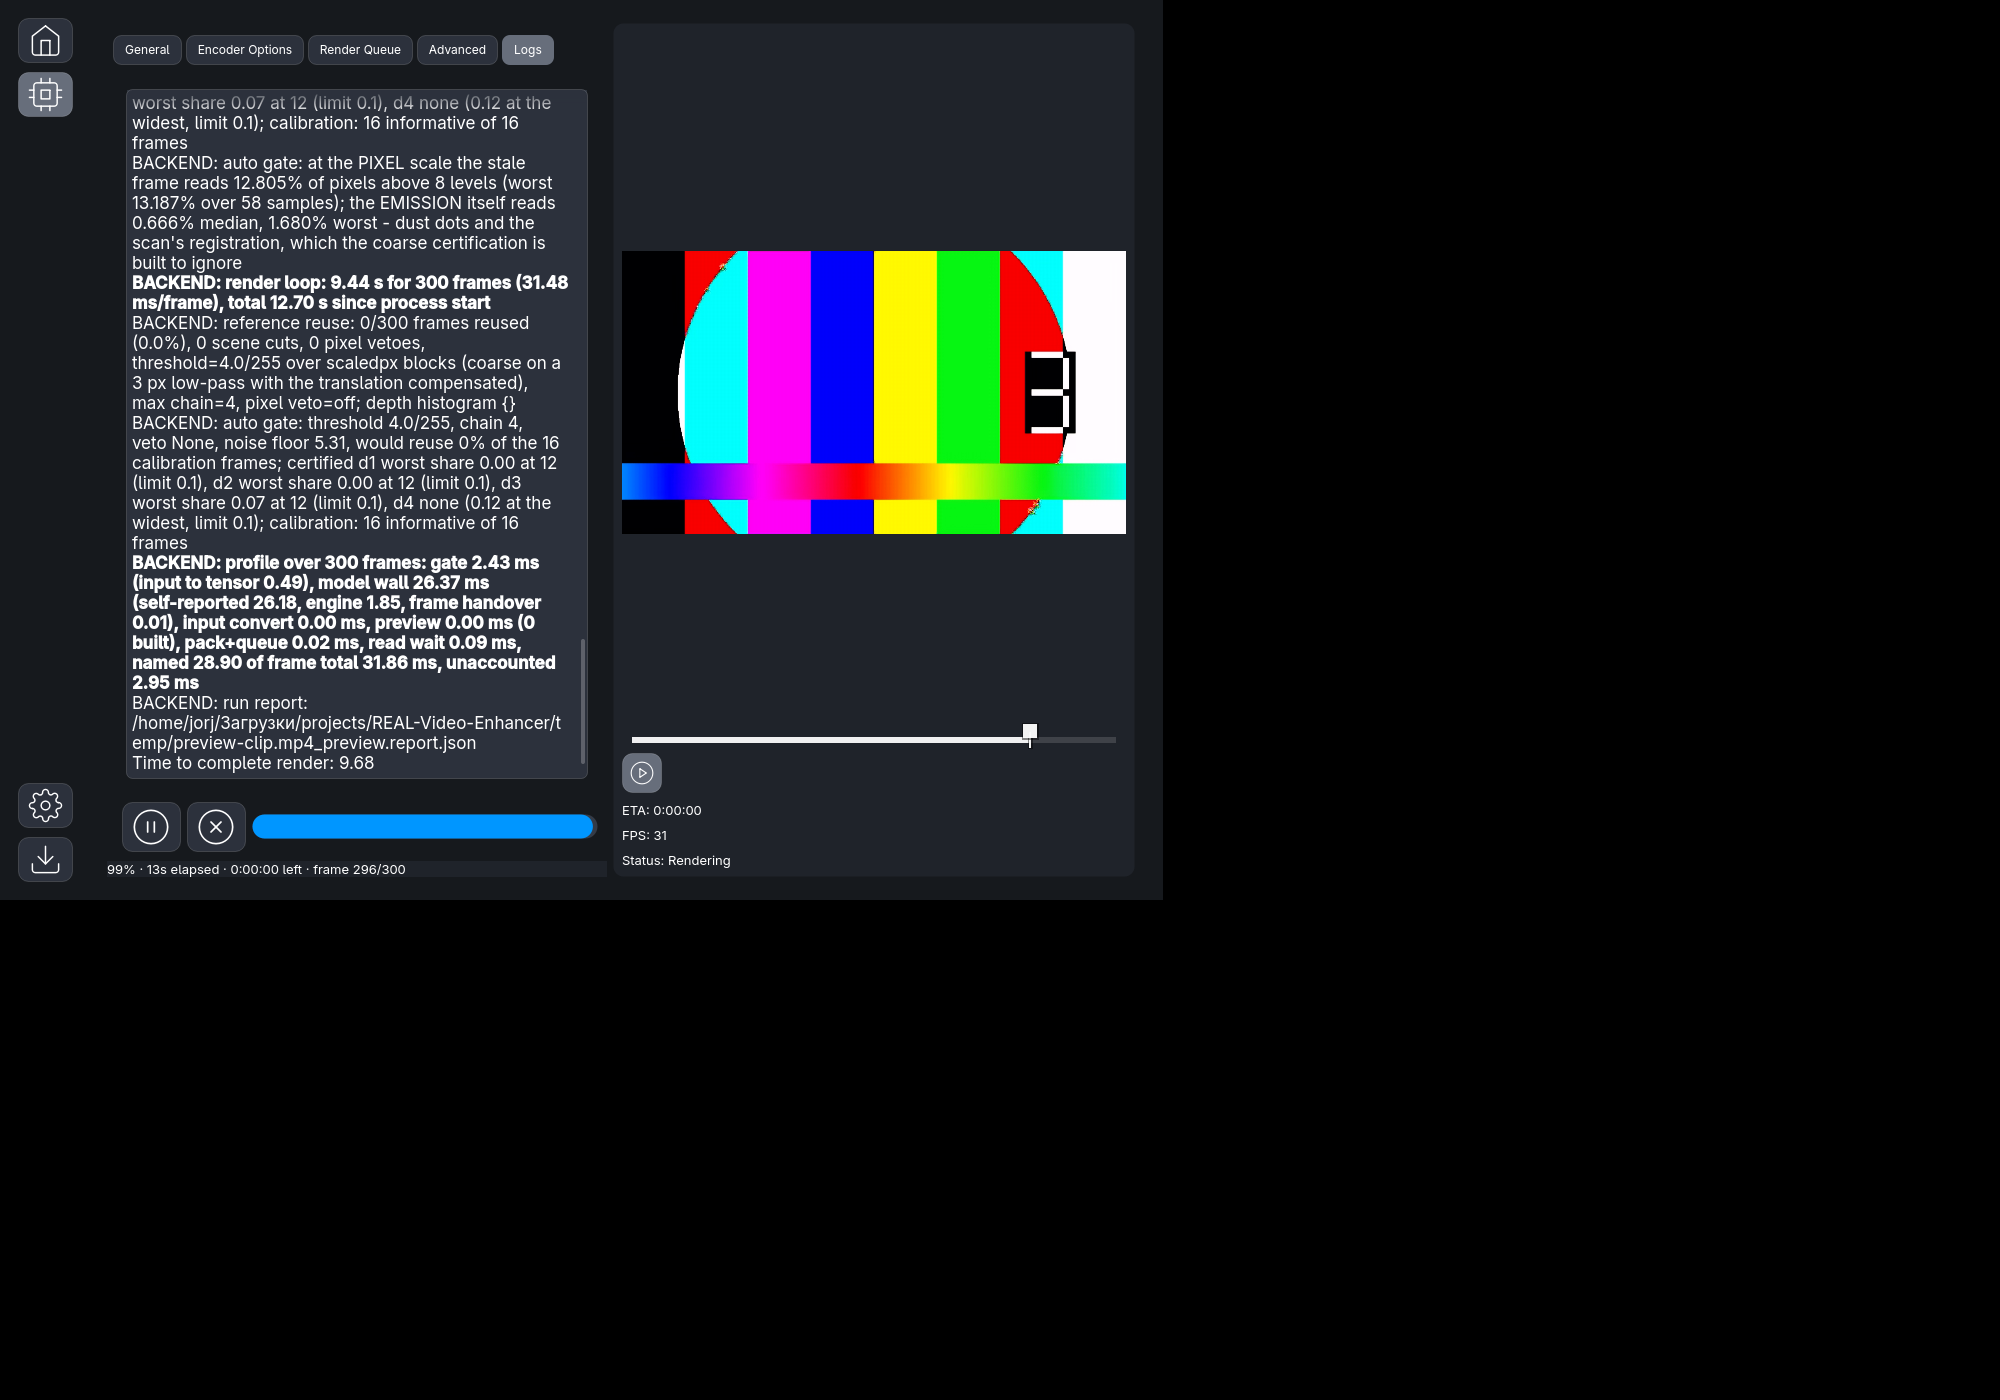
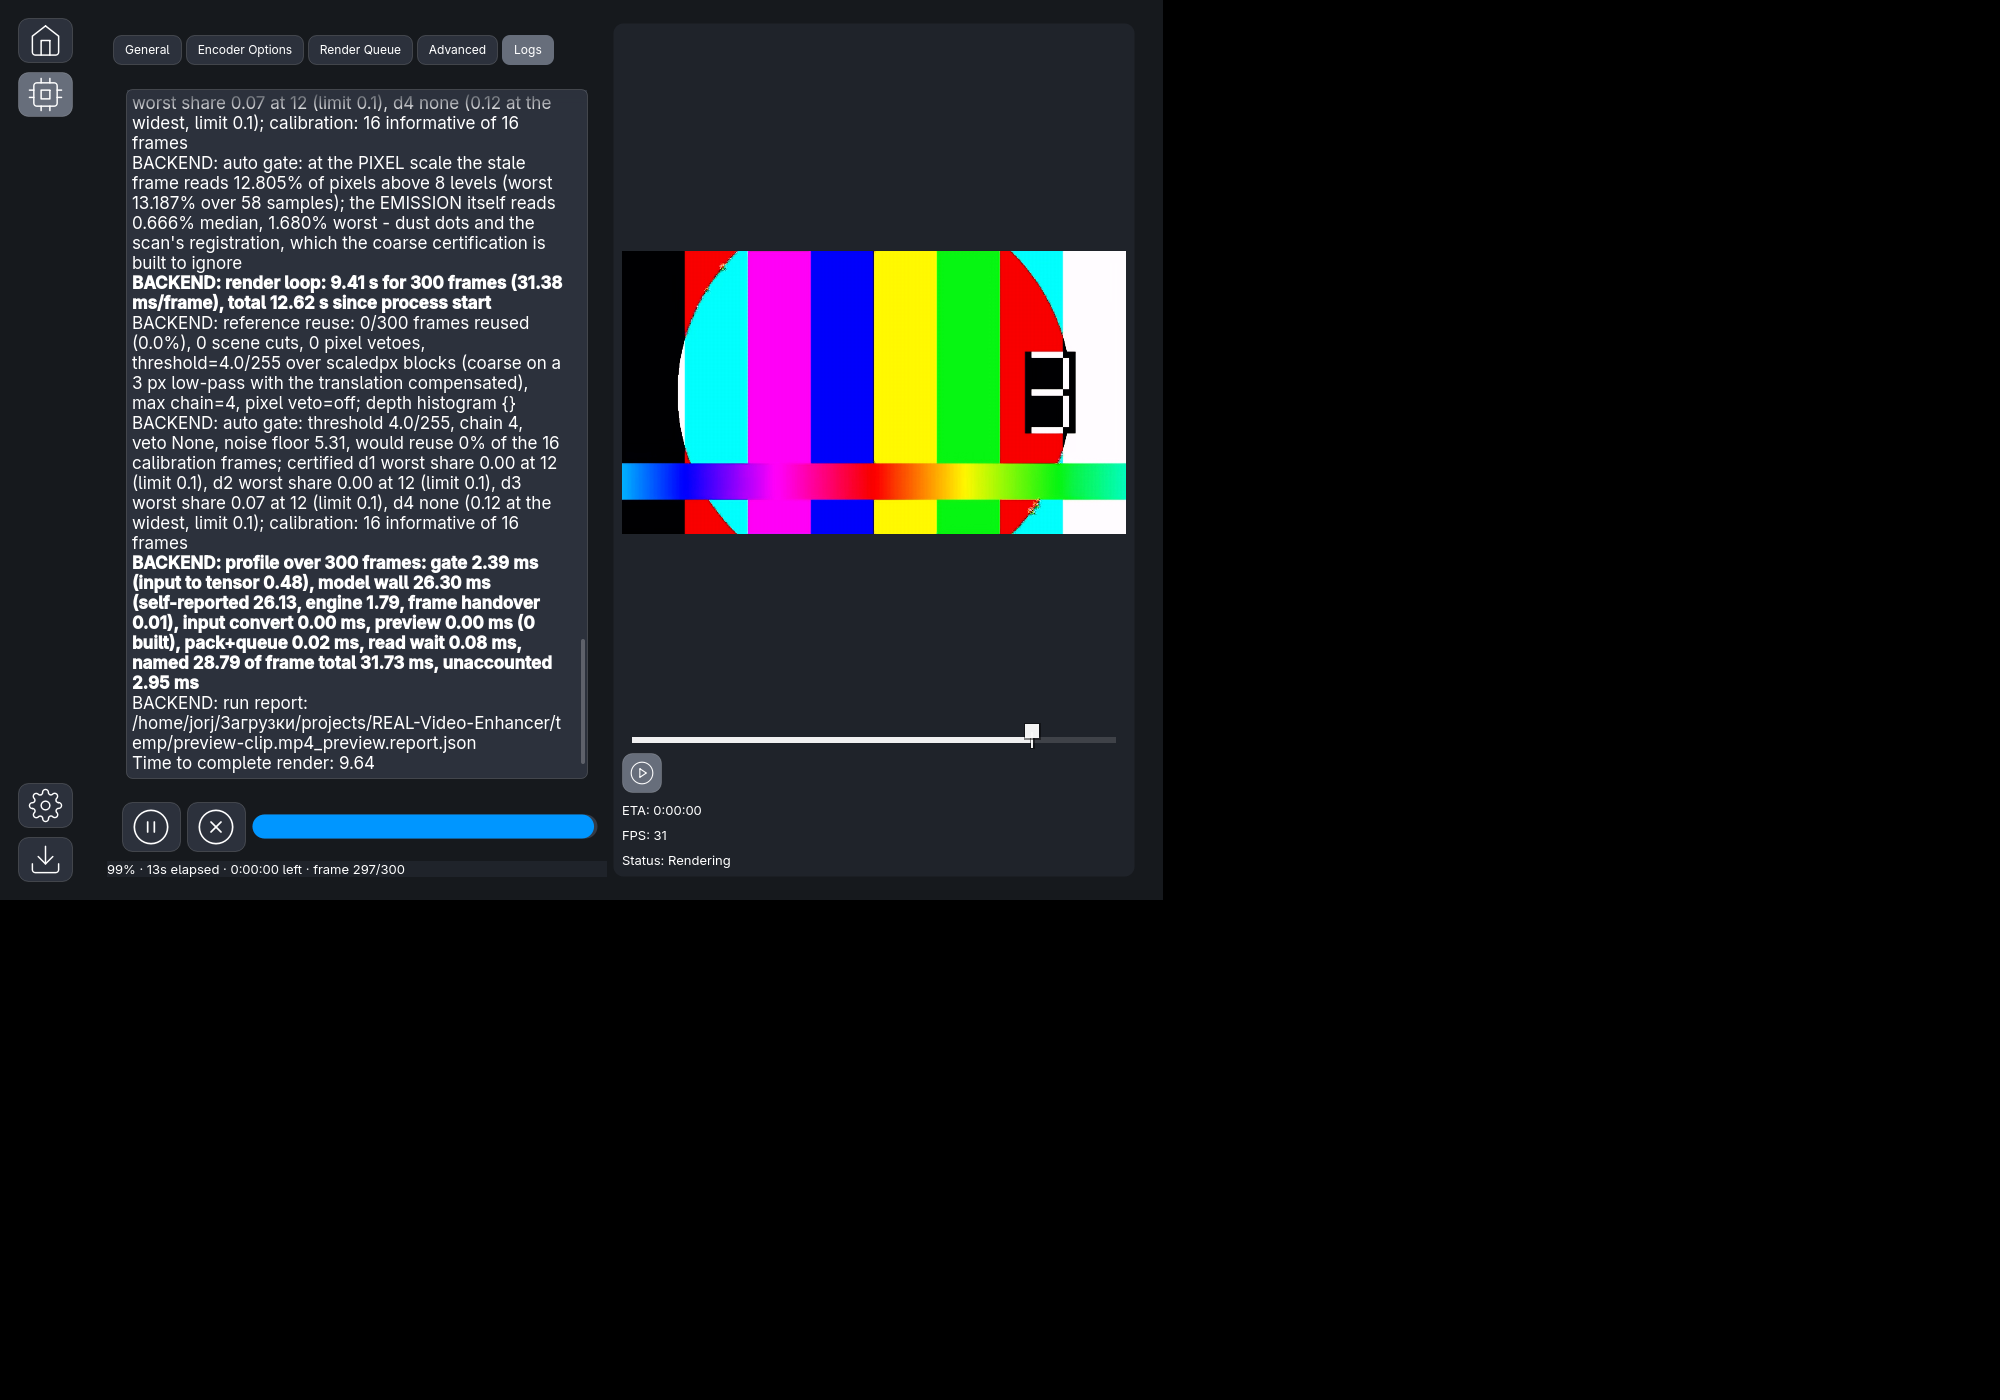
Preview transport: take the state from the button's toggled(bool), not a read-back
One early live run left the toggle checked and the picture untouched after a click. The
handler no longer reads isChecked() out of the widget (that depends on when the toolkit
lands its own toggle and can disagree with the gesture); it receives the requested state
with `toggled(bool)`, and painting the state uses `setChecked(..., emit=False)` so it can
never look like a user toggle.

Re-measured both owners in one instance (:91): live tail - paused at 0.12 s with 53/300
frames produced, play moved it 0.76 -> 2.84 s while `rendered` went 167 -> 232, pause held
3.32 s into the hand-over; finished file - handed over paused at 0.12 s, play 0.72 -> 2.2 s,
pause held 2.48 s across three samples. Evidence refreshed in
harness/docs/wsp/verified/logs/preview-seek-2026-11-23/pause-*.png.

Changed region(s): [[0.31, 0.3071, 0.589, 0.3686], [0.124, 0.3993, 0.279, 0.4914], [0.186, 0.1843, 0.279, 0.215]]

diff --git a/src/ui/ProcessTab.py b/src/ui/ProcessTab.py
@@ -346,7 +346,11 @@ class ProcessTab:
         self.page_handles.proc.killRenderButton.clicked.connect(self.killRenderProcess)
         # The preview's own transport: it stands PAUSED until this is pressed (owner, 2026-11-23), and the toggle's
         # checked state is the truth for both owners of the pane (the live tail and the finished-file decoder).
-        self.page_handles.proc.previewPauseButton.clicked.connect(self.toggle_preview_pause)
+        # `toggled(bool)` rather than `clicked()`: the handler then receives the state the user asked for instead of
+        # reading it back out of the widget - a read-back depends on when the toolkit lands its own toggle, and one
+        # early run showed a click that left the button checked with nothing moved (2026-11-23, not reproduced after
+        # the switch, and the state can no longer disagree with the signal that carries it).
+        self.page_handles.proc.previewPauseButton.toggled.connect(self._on_preview_pause_toggled)
         self._sync_preview_transport()
 
     def killRenderProcess(self):
@@ -706,14 +710,14 @@ class ProcessTab:
             self._live_tail = None
         self._sync_preview_transport()
 
-    def toggle_preview_pause(self) -> None:
-        """Hold the preview on this frame, or let it follow the render again.
+    def _on_preview_pause_toggled(self, paused: bool) -> None:
+        """Hold the preview on this frame, or let it follow the render again (the button's `toggled(bool)`).
 
         One state for both owners of the pane: the live tail simply stops polling (no decode, no I/O, the picture
-        stands, and a strip press still repositions it), the finished-file decoder pauses on its frame. The toggle's
-        own checked state is the truth, so a pane rebuilt by a new job cannot disagree with the button.
+        stands, and a strip press still repositions it), the finished-file decoder pauses on its frame. The state
+        comes IN with the signal, so the handler cannot act on a half-applied toggle.
         """
-        self._preview_paused = bool(self.page_handles.proc.previewPauseButton.isChecked())
+        self._preview_paused = bool(paused)
         tail = getattr(self, "_live_tail", None)
         if tail is not None:
             try:
@@ -746,10 +750,14 @@ class ProcessTab:
             return
         paused = bool(getattr(self, "_preview_paused", True))
         try:
+            # `emit=False`: painting the state must not look like a user toggle (that would call this handler again).
+            button.setChecked(paused, emit=False)
+        except TypeError:      # a toolkit older than the keyword
             button.blockSignals(True)
-            button.setChecked(paused)
-        finally:
-            button.blockSignals(False)
+            try:
+                button.setChecked(paused)
+            finally:
+                button.blockSignals(False)
         button.setToolTip(
             "Paused: the preview holds this frame. Press to follow the render."
             if paused else "Following the render. Press to hold this frame."
